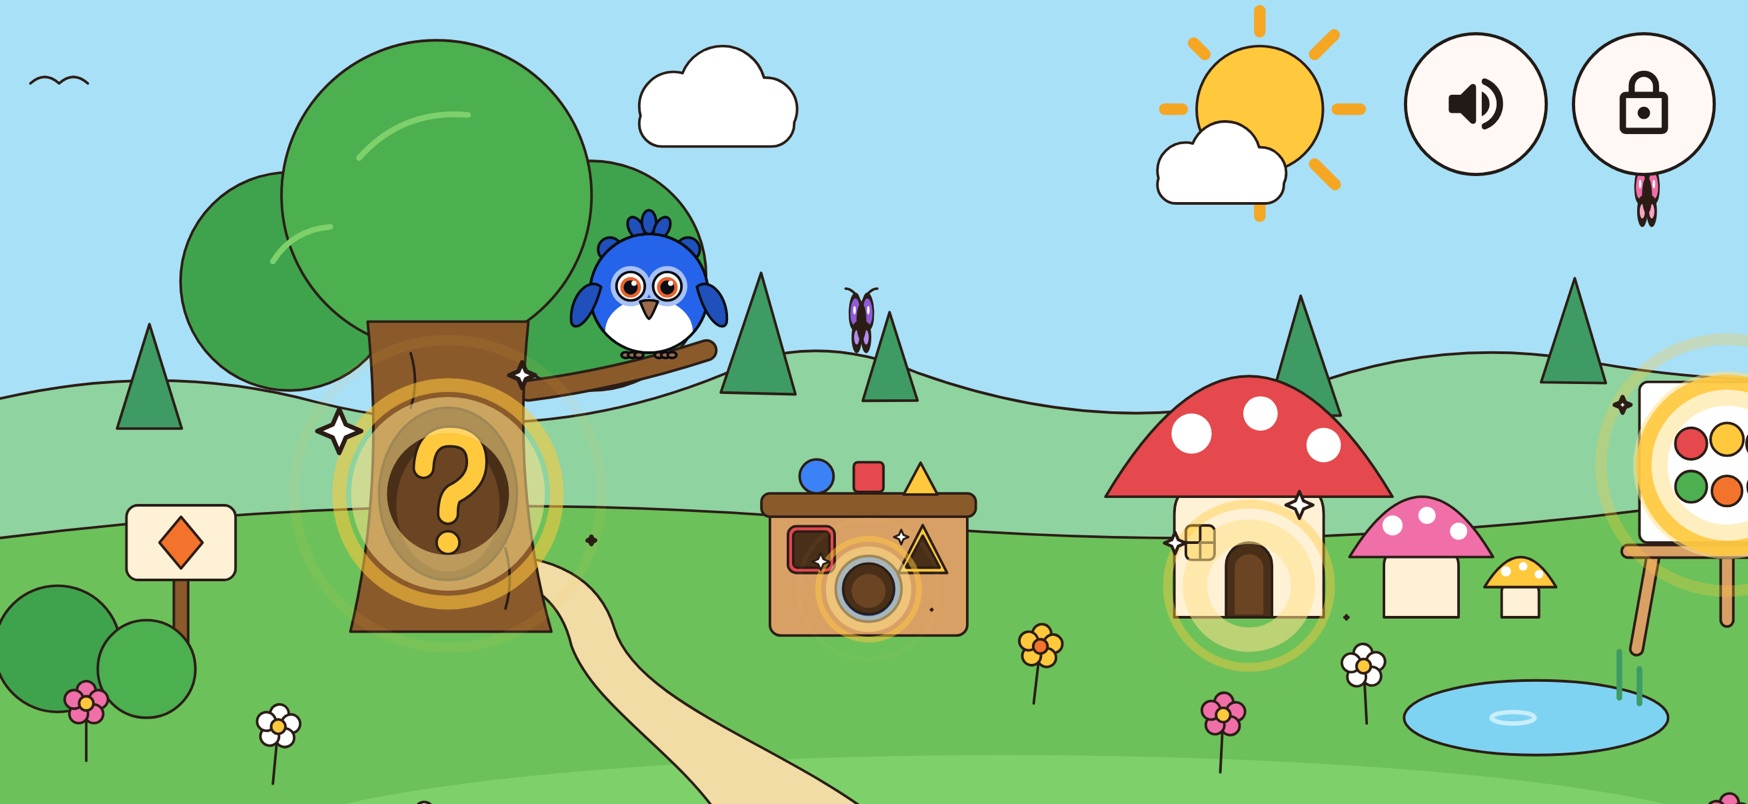
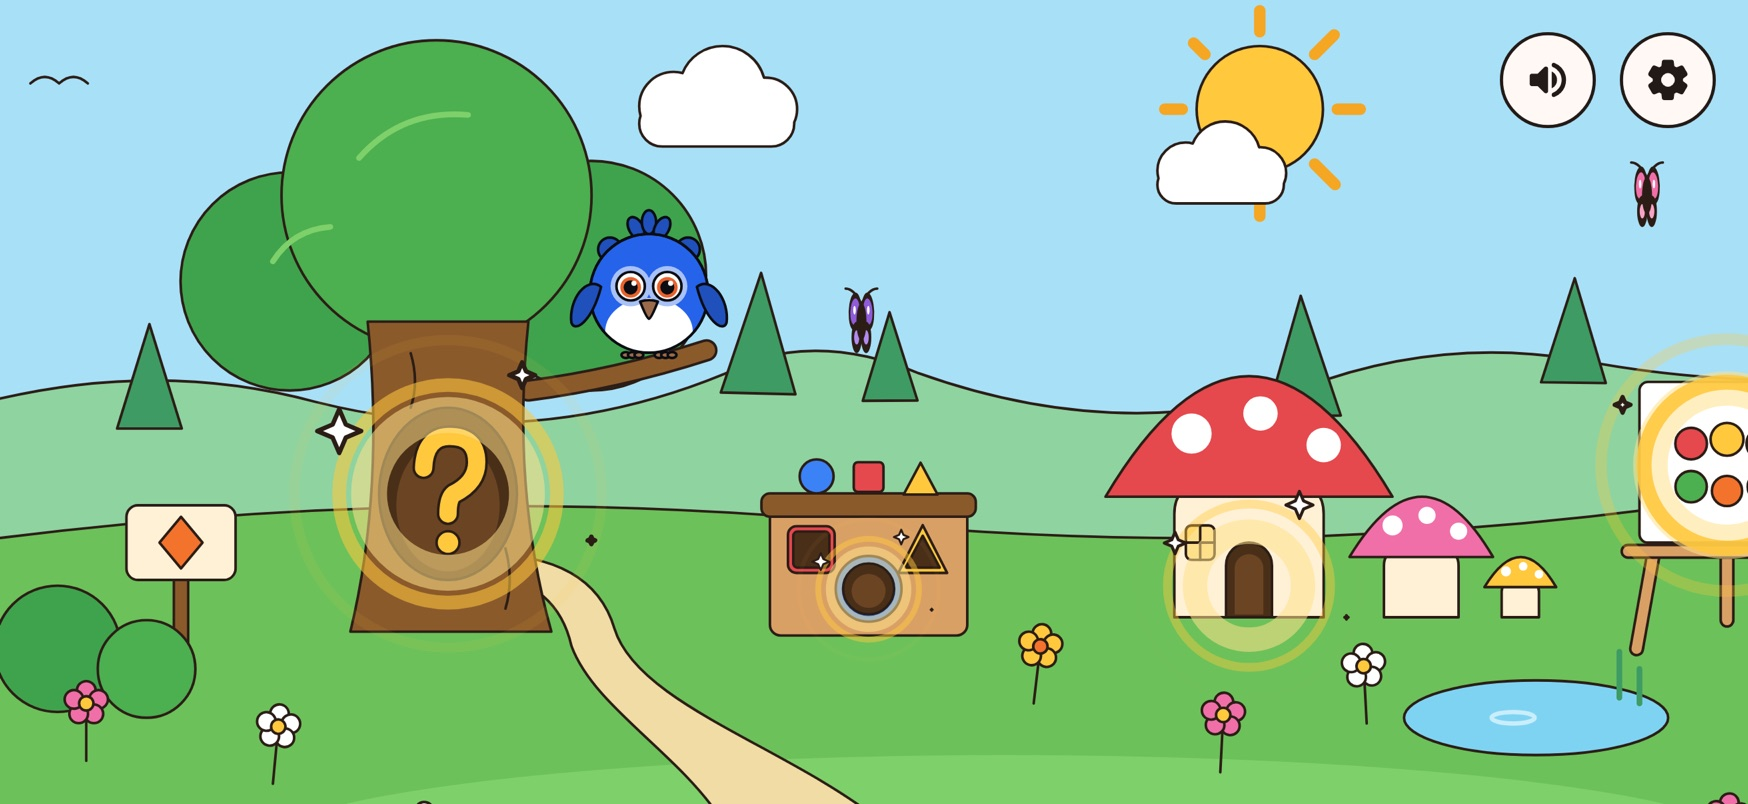
Policy and parents' list follow the grown-ups' sum gate
The parents' area opens after a sum for grown-ups, from the gear button or
a locked game's house, and the purchase asks another; the meadow picture
shows the gear.

Changed region(s): [[0.8032, 0.0311, 0.9886, 0.2177]]

diff --git a/index.html b/index.html
@@ -142,7 +142,7 @@
         <p class="note" lang="uk">Дві ігри безкоштовні назавжди. Решту — і всі нові ігри — відкриває одна покупка, без підписки.</p>
         <p class="note" lang="en">Two games are free for good. One purchase opens the rest — and every new game — with no subscription.</p>
       </div>
-      <img class="shot" src="img/home.jpg" width="1748" height="804" alt="The meadow: Pipit the bird on an oak branch, a question mark in the hollow, a shape sorter and a mushroom house">
+      <img class="shot" src="img/home.jpg" width="1748" height="804" alt="The meadow: Pipit the bird on an oak branch, a question mark in the hollow, a shape sorter and a mushroom house, with the sound and parents' gear buttons in the corner">
     </div>
   </div>
 
@@ -218,14 +218,14 @@
       <ul lang="uk">
         <li>Дві ігри — «Форми» й «Розміри» — безкоштовні назавжди.</li>
         <li>Інші тринадцять відкриває одна покупка. Нові ігри ми додаємо постійно — і вони відкриються разом із нею, без доплат.</li>
-        <li>Покупки й налаштування сховані за питанням для дорослих, тож малюк не натрапить на них випадково.</li>
+        <li>Покупки й налаштування сховані за прикладом для дорослих, тож малюк не натрапить на них випадково. Замкнений будиночок теж веде до покупки лише через цей приклад.</li>
         <li>Мова — українська або англійська, музику можна вимкнути на сторінці для батьків.</li>
         <li>Без реклами, акаунтів, аналітики й будь-якого збору даних. Деталі — у <a href="privacy/">політиці конфіденційності</a>.</li>
       </ul>
       <ul lang="en">
         <li>Two games — Shapes and Sizes — are free for good.</li>
         <li>One purchase opens the other thirteen. We keep adding new games, and they open with it too, at no extra cost.</li>
-        <li>Purchases and settings sit behind a question for grown-ups, so little ones can't reach them by accident.</li>
+        <li>Purchases and settings sit behind a sum for grown-ups, so little ones can't reach them by accident. A locked house leads to the purchase only through that sum too.</li>
         <li>Ukrainian or English; background music can be switched off on the parents' page.</li>
         <li>No ads, accounts, analytics or data collection of any kind. Details in the <a href="privacy/">privacy policy</a>.</li>
       </ul>
